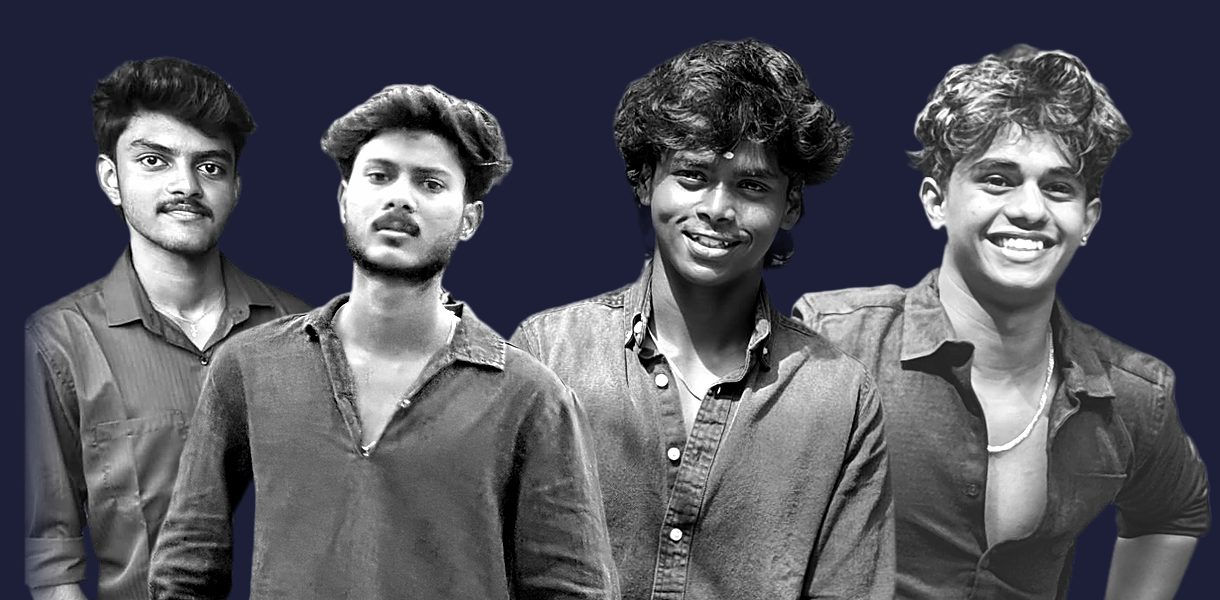
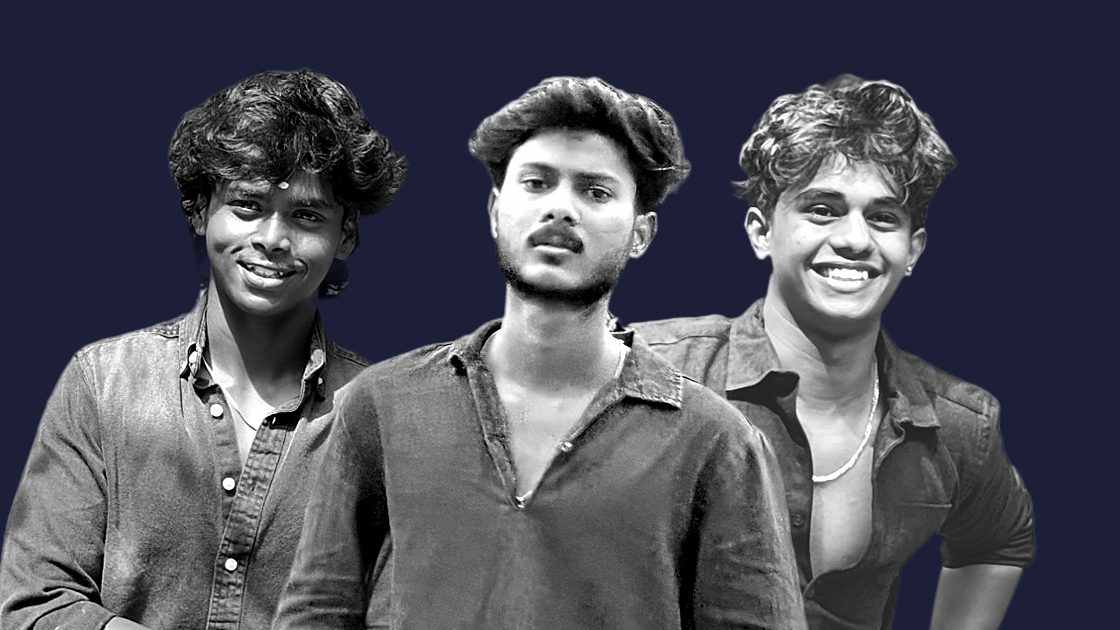
Show the team as three with the founder in the centre, a little larger and brighter

diff --git a/src/components/Team.tsx b/src/components/Team.tsx
@@ -3,17 +3,18 @@
 import Image from "next/image";
 import { useState, type FocusEvent, type MouseEvent, type PointerEvent } from "react";
 import { TEAM } from "@/lib/content";
-import shyan from "../../public/media/team-shyan.webp";
 import suhail from "../../public/media/team-suhail.webp";
 import sudhir from "../../public/media/team-sudhir.webp";
 import ajay from "../../public/media/team-ajay.webp";
 
-const LAYERS = { shyan, suhail, sudhir, ajay };
-// Back to front: Shyan stands just behind Suhail.
-const PAINT = ["shyan", "ajay", "sudhir", "suhail"] as const;
+const LAYERS = { suhail, sudhir, ajay };
+// Back to front: Suhail, the founder, stands in the centre and in front.
+const PAINT = ["sudhir", "ajay", "suhail"] as const;
+// Lit a little brighter than the others while nobody is pointed at.
+const LEAD = "suhail";
 
 /**
- * The team as one black and white group photo on a dark studio backdrop,
+ * The team as one black and white group photo, the founder in the centre on a dark studio backdrop,
  * framed like the opening's viewfinder. Each person is a separate layer:
  * hovering (or tapping) someone keeps him lit while the others drop into
  * shadow, and a caption in the corner introduces him with his role and
@@ -52,7 +53,7 @@ export default function Team() {
           </p>
         </div>
         <p className="m-0 max-w-[300px] text-sm leading-relaxed text-ink-soft">
-          Young, quick and hands-on. The same four people plan, shoot and deliver your work.
+          Young, quick and hands-on. The same people plan, shoot and deliver your work.
         </p>
       </div>
 
@@ -66,7 +67,7 @@ export default function Team() {
           <span
             className="team-glow"
             aria-hidden="true"
-            style={{ left: `${m ? m.x : 50}%`, opacity: m ? 1 : 0 }}
+            style={{ left: `${m ? m.x : 50}%`, opacity: m ? 1 : 0.8 }}
           />
           {PAINT.map((id) => {
             const i = TEAM.findIndex((t) => t.id === id);
@@ -77,7 +78,7 @@ export default function Team() {
                 alt=""
                 aria-hidden="true"
                 sizes="(max-width: 1180px) 100vw, 1100px"
-                className={`team-layer ${active === i ? "is-active" : ""}`}
+                className={`team-layer ${active === i ? "is-active" : ""} ${id === LEAD ? "is-lead" : ""}`}
               />
             );
           })}

diff --git a/src/lib/content.ts b/src/lib/content.ts
@@ -106,15 +106,15 @@ export type Member = {
 
 export const TEAM: Member[] = [
   {
-    id: "shyan",
-    name: "Shyan",
-    role: "Technical Lead",
-    line: "Builds the websites and keeps the tech behind every campaign running.",
-    handle: "@_shyan7",
-    instagram: "https://www.instagram.com/_shyan7/",
-    x: 14.3,
+    id: "sudhir",
+    name: "Sudhir",
+    role: "Chief Operating Officer",
+    line: "Runs the shoots, schedules and deliveries so nothing ever slips.",
+    handle: "@_sudhir.____",
+    instagram: "https://www.instagram.com/_sudhir.____/",
+    x: 24.1,
     from: 0,
-    to: 23.5,
+    to: 36,
   },
   {
     id: "suhail",
@@ -123,20 +123,9 @@ export const TEAM: Member[] = [
     line: "Started Igloo Ads and sets the direction for every brand we take on.",
     handle: "@moh_suhaill",
     instagram: "https://www.instagram.com/moh_suhaill/",
-    x: 32.8,
-    from: 23.5,
-    to: 45.7,
-  },
-  {
-    id: "sudhir",
-    name: "Sudhir",
-    role: "Chief Operating Officer",
-    line: "Runs the shoots, schedules and deliveries so nothing ever slips.",
-    handle: "@_sudhir.____",
-    instagram: "https://www.instagram.com/_sudhir.____/",
-    x: 58.6,
-    from: 45.7,
-    to: 71.3,
+    x: 50,
+    from: 36,
+    to: 64,
   },
   {
     id: "ajay",
@@ -145,8 +134,8 @@ export const TEAM: Member[] = [
     line: "Dreams up the concepts, then steps in front of the camera himself.",
     handle: "@_ajayy.13_",
     instagram: "https://www.instagram.com/_ajayy.13_/",
-    x: 84,
-    from: 71.3,
+    x: 75.9,
+    from: 64,
     to: 100,
   },
 ];

diff --git a/src/app/globals.css b/src/app/globals.css
@@ -1220,7 +1220,7 @@
       radial-gradient(70% 60% at 50% 30%, #34385f 0%, transparent 70%),
       var(--color-deep);
   }
-  /* Film grain over everything, so the four photos read as one shot. */
+  /* Film grain over everything, so the separate photos read as one shot. */
   .team-stage::after {
     content: "";
     position: absolute;
@@ -1244,7 +1244,7 @@
   }
   .team-photo {
     position: relative;
-    aspect-ratio: 1220 / 600;
+    aspect-ratio: 1120 / 630;
   }
   .team-layer {
     position: absolute;
@@ -1254,6 +1254,10 @@
     transition:
       filter 0.45s var(--ease-out-soft),
       transform 0.5s var(--ease-out-soft);
+  }
+  /* At rest the founder in the centre is lit a touch brighter than the others. */
+  .team-stage:not(.has-active) .team-layer:not(.is-lead) {
+    filter: brightness(0.8);
   }
   .has-active .team-layer {
     filter: brightness(0.3) contrast(0.9);

diff --git a/scripts/team_photo.py b/scripts/team_photo.py
@@ -13,7 +13,7 @@ The originals in assets/team are only read, never changed.
 
 from pathlib import Path
 
-from PIL import Image, ImageChops, ImageDraw, ImageFilter, ImageEnhance, ImageOps
+from PIL import Image, ImageFilter, ImageOps
 import pillow_heif
 from rembg import new_session, remove
 
@@ -27,40 +27,25 @@ DEEP = (29, 31, 56)
 # Measured on the photos after they are shrunk to fit 2400px: the eye line,
 # the chin and the face centre. Faces are scaled so eye-to-chin matches.
 PEOPLE = {
-    "shyan": dict(file="shyan.jpg", eye=309, chin=428, cx=214, scale=0.95, x=300, lift=16),
-    "suhail": dict(file="suhail.heic", eye=1130, chin=1250, cx=650, scale=1.0, x=525, lift=0),
-    "sudhir": dict(file="sudhir.jpg", eye=890, chin=998, cx=846, scale=1.0, x=840, lift=0),
-    "ajay": dict(file="ajay.heic", eye=1030, chin=1165, cx=1092, scale=1.0, x=1150, lift=0),
+    "sudhir": dict(file="sudhir.jpg", eye=890, chin=998, cx=846, scale=1.0, x=430, lift=0),
+    "suhail": dict(file="suhail.heic", eye=1130, chin=1250, cx=650, scale=1.16, x=720, lift=22),
+    "ajay": dict(file="ajay.heic", eye=1030, chin=1165, cx=1092, scale=1.0, x=1010, lift=0),
 }
-# Painted back to front: Shyan stands just behind Suhail, whose shoulder
-# hides the edge of Shyan's photo where another person was standing.
-PAINT_ORDER = ["shyan", "ajay", "sudhir", "suhail"]
+# Painted back to front: Suhail, the founder, stands in the centre and in
+# front, a little larger than the others.
+PAINT_ORDER = ["sudhir", "ajay", "suhail"]
 EYE_TO_CHIN = 95
 TONE_MEAN, TONE_STD = 112, 58
 CANVAS = (1440, 720)
 EYE_Y = 300
 # Final frame: trims the empty space above the tallest head and at the sides.
-FRAME = (125, 120, 1345, 720)
+FRAME = (160, 90, 1280, 720)
 
 
-def cut_out(name, p, session):
+def cut_out(p, session):
     im = Image.open(SRC / p["file"]).convert("RGB")
     im.thumbnail((2400, 2400))
     im = remove(im, session=session).convert("RGBA")
-    if name == "shyan":
-        # Drop the other people in this photo, and fade the left edge where
-        # the original frame cuts through his arm.
-        keep = Image.new("L", im.size, 0)
-        ImageDraw.Draw(keep).polygon(
-            [(0, 0), (416, 0), (416, 505), (385, 505), (330, 560), (300, 620), (276, 700),
-             (252, 800), (226, 880), (232, 960), (150, 995), (150, 1280), (0, 1280)],
-            fill=255,
-        )
-        ramp = Image.linear_gradient("L").rotate(90).resize((60, im.height))
-        edge = ImageChops.multiply(keep.crop((0, 0, 60, im.height)), ramp)
-        keep.paste(edge, (0, 0))
-        alpha = Image.composite(im.getchannel("A"), Image.new("L", im.size, 0), keep)
-        im.putalpha(alpha)
     # Pull the edge in a little and soften it, so no background colour
     # shows as a light halo around the hair and shoulders.
     # Faint leftovers of the old background are dropped first.
@@ -86,7 +71,7 @@ def layer(im, p):
 
 def to_grey(rgba):
     grey = ImageOps.grayscale(rgba.convert("RGB"))
-    # Match the tones: shift and stretch each person's greys so all four
+    # Match the tones: shift and stretch each person's greys so everyone
     # share the same brightness and contrast, whatever light they were shot in.
     alpha = rgba.getchannel("A")
     solid = [g for g, a in zip(grey.getdata(), alpha.getdata()) if a > 200]
@@ -102,10 +87,10 @@ def main():
     session = new_session("isnet-general-use")
     layers = {}
     for name, p in PEOPLE.items():
-        layers[name] = to_grey(layer(cut_out(name, p, session), p))
+        layers[name] = to_grey(layer(cut_out(p, session), p))
         layers[name].save(OUT / f"team-{name}.webp", quality=82, method=6)
         print("layer", name)
-    group = Image.new("RGBA", layers["shyan"].size, DEEP + (255,))
+    group = Image.new("RGBA", layers["suhail"].size, DEEP + (255,))
     for name in PAINT_ORDER:
         group.alpha_composite(layers[name])
     group.convert("RGB").save(OUT / "team-group.jpg", quality=82, optimize=True, progressive=True)
